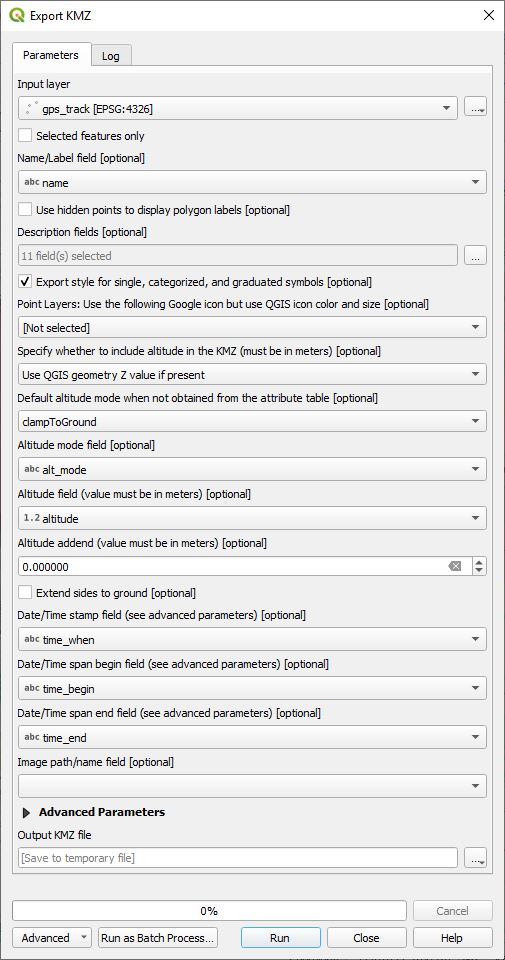
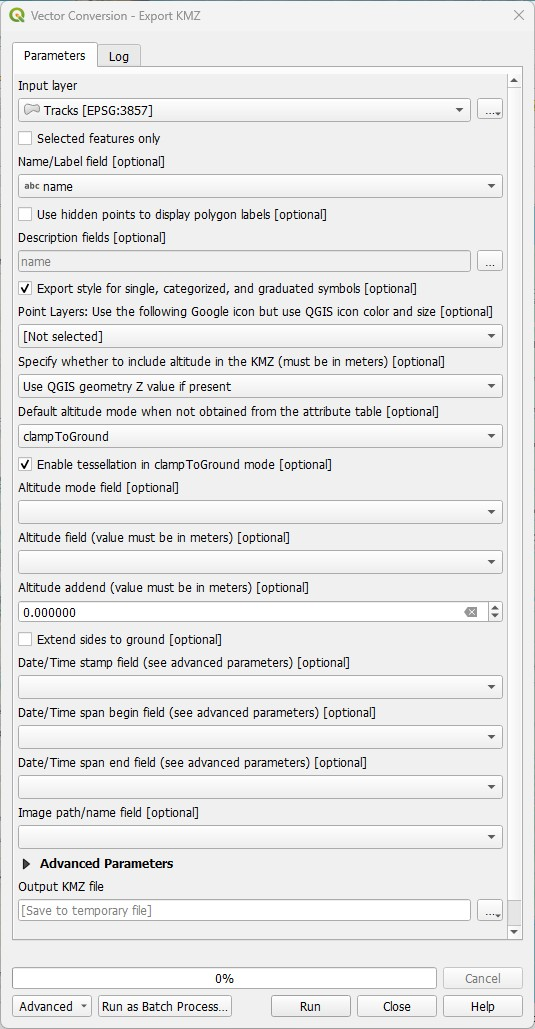
Enable tessellate tag

Changed region(s): [[0.0, 0.0, 1.0, 1.0], [0.2673, 0.0, 0.3861, 0.0312], [0.9505, 0.0, 1.0, 0.0312]]

diff --git a/index.html b/index.html
@@ -56,21 +56,18 @@ code {
         &lt;tr&gt;&lt;td&gt;State&lt;/td&gt;&lt;td&gt;Utah&lt;/td&gt;&lt;/tr&gt;
     &lt;/table&gt;
 </code></pre>
-
 <ul>
 <li><strong><em>Expand from "tag = value" pairs</em></strong> - If the KML has a description entry that contains "tag = value" entries separated by new paragraphs, line breaks, or entries in a single table column, then this option will parse these fields and add them to a new attribute table field. This is an example of data that it expands.</li>
 </ul>
 <pre><code>    &lt;b&gt;City&lt;b/&gt; = Provo&lt;br/&gt;
     &lt;b&gt;State&lt;b/&gt; = Utah&lt;br/&gt;
 </code></pre>
-
 <ul>
 <li><strong><em>Expand from "tag: value" pairs</em></strong> - If the KML has a description entry that contains "tag: value" entries separated by new paragraphs, line breaks, or entries in a single table column, then this option will parse these fields and add them to a new attribute table field. This is an example of data that it expands.</li>
 </ul>
 <pre><code>    &lt;b&gt;City:&lt;b/&gt; Provo&lt;br/&gt;
     &lt;b&gt;State:&lt;b/&gt; Utah&lt;br/&gt;
 </code></pre>
-
 <p>This can either be run from the menu, tool bar, or <em>Processing Toolbox</em>; however, running it from the menu or tool bar provides user interaction during the conversion to select which fields they want to expand. During expansion some of the expansion names may already exist in the table. If that is the case then an '_' followed by a number is appended to the end.</p>
 <div style="text-align:center"><img src="doc/html.jpg" alt="HTML Expander"></div>
 
@@ -94,6 +91,7 @@ code {
 <li><strong><em>Point layers: Use the following Google icon, but use QGIS icon color and size</em></strong> - Rather than display the QGIS icon shape, you can select one of the Google Earth icon shapes to be displayed for point features. The size and color of the icon will be determined by QGIS.</li>
 <li><strong><em>Specify whether to include altitude in the KMZ</em></strong> - If altitude is available in the QGIS geometry as a Z attribute or is available in the attribute table, then it can be included in the KMZ. Note that the altitude value must be in <strong>meters</strong>; otherwise, it will not be displayed correctly. The KML Altitude Mode also affects how altitude is interpreted.</li>
 <li><strong><em>Default altitude mode when not obtained from the attribute table</em></strong> - When altitude is not obtained from a field in the attribute table, then this value is used.</li>
+<li><strong><em>Enable tessellation in clampToGround mode</em></strong> - This enables tessellation and specifies whether to allow LinearRings to follow the terrain. This is only applicable when the altitude mode is clampToGround. Very large LinearRings should enable tessellation so that they follow the curvature of the earth without going underground and becoming  invisible.</li>
 <li><strong><em>Altitude mode field</em></strong> - Specify a field in the attribute table to be used as the altitude mode.</li>
 <li><strong><em>Altitude field</em></strong> - Specify a field in the attribute table to be used as the altitude. This value must be in meters.</li>
 <li><strong><em>Altitude addend</em></strong> - Specify a quantity to be used as addend for altitude (from Altitude field or Z attribute). This value must be in meters.</li>
@@ -110,7 +108,8 @@ code {
 <li><strong><em>Line width multiplication factor</em></strong> - Line widths in Google Earth visually appear smaller than in QGIS so this provides a method to make them look similar. By default this is set to 2.</li>
 <li><strong><em>Select field to create categorized KML subfolders</em></strong> - You can select an attribute to create categorized folders in the output KML. This is an example of National Parks layer exporated as a KML and displayed in Google Earth. You can see the National Parks categorized by their type.</li>
 </ul>
-<p><div style="text-align:center"><img src="doc/categorized_folders.jpg" alt="Advanced parameters"></div></p>
+<div style="text-align:center"><img src="doc/categorized_folders.jpg" alt="Advanced parameters"></div>
+
 <ul>
 <li>The rest of the advanced parameters allow the use of separate date and time fields to be combined into a single KML time stamp, time span begin, or time span end field.</li>
 </ul>
@@ -135,4 +134,5 @@ code {
 <p>The parameters are the input KML or KMZ and the location of a folder to store the images in. You can also specify whether to automatically load the converted GeoTIFF images into QGIS or not. If any images are found that cannot be converted, they will be reported in the algorithm log. If rotation is involved in the conversion process, the output GeoTIFFs are compatible with QGIS, but may not be compatible with other programs. If needed, run these images through <strong><em>GDAL-&gt;Raster projections-&gt;Warp</em></strong> to make them compatible with other programs.</p>
 <h3><img src="icons/gnd_overlay.svg" alt="Ground Overlay to GeoTIFF Image"> <strong><em>Ground Overlay to GeoTIFF Image</em></strong></h3>
 <p>This algorithm manually allows the user to specify an image and enter the north, south, east, west and rotation parameters to convert the input image into a GeoTIFF image. If rotation is not zero, the output GeoTiff is compatible with QGIS, but may not be compatible with other programs. If needed, run the output of this algorithm through <strong><em>GDAL-&gt;Raster projections-&gt;Warp</em></strong> to make it compatible with other programs.</p>
-<div style="text-align:center"><img src="doc/gndoverlay2tiff.jpg" alt="Ground Overlay to GeoTIFF"></div></body>
+<div style="text-align:center"><img src="doc/gndoverlay2tiff.jpg" alt="Ground Overlay to GeoTIFF"></div>
+</body>

diff --git a/exportKmz.py b/exportKmz.py
@@ -89,6 +89,7 @@ class ExportKmzAlgorithm(QgsProcessingAlgorithm):
     PrmPhotoField = 'PhotoField'
     PrmPhotoDir = 'PhotoDir'
     PrmUseDescBR = 'UseDescBR'
+    PrmTessellate = 'Tessellate'
     epsg4326 = QgsCoordinateReferenceSystem("EPSG:4326")
     temp_dir = tempfile.gettempdir()
 
@@ -176,6 +177,13 @@ class ExportKmzAlgorithm(QgsProcessingAlgorithm):
                 'Default altitude mode when not obtained from the attribute table',
                 options=ALTITUDE_MODES,
                 defaultValue=0,
+                optional=True)
+        )
+        self.addParameter(
+            QgsProcessingParameterBoolean(
+                self.PrmTessellate,
+                'Enable tessellation in clampToGround mode',
+                True,
                 optional=True)
         )
         self.addParameter(
@@ -383,6 +391,7 @@ class ExportKmzAlgorithm(QgsProcessingAlgorithm):
         altitude_field = self.parameterAsString(parameters, self.PrmAltitudeField, context)
         altitude_addend = self.parameterAsDouble(parameters, self.PrmAltitudeAddend, context)
         extend_sides_to_ground = self.parameterAsInt(parameters, self.PrmExtendSidesToGround, context)
+        tessellate = self.parameterAsInt(parameters, self.PrmTessellate, context)
         date_time_stamp_field = self.parameterAsString(parameters, self.PrmDateTimeStampField, context)
         date_stamp_field = self.parameterAsString(parameters, self.PrmDateStampField, context)
         time_stamp_field = self.parameterAsString(parameters, self.PrmTimeStampField, context)
@@ -505,7 +514,7 @@ class ExportKmzAlgorithm(QgsProcessingAlgorithm):
             if geomtype == QgsWkbTypes.PointGeometry:  # POINTS
                 for pt in geom.parts():
                     kmlpart = kmlgeom.newpoint()
-                    self.setAltitudeMode(kmlpart, feature, default_alt_mode, alt_mode_field, extend_sides_to_ground)
+                    self.setAltitudeMode(kmlpart, feature, default_alt_mode, alt_mode_field, extend_sides_to_ground, 0)
                     if kml_item is None:
                         kml_item = kmlpart
                     if hasz:
@@ -517,7 +526,7 @@ class ExportKmzAlgorithm(QgsProcessingAlgorithm):
                 for part in geom.parts():
                     # feedback.pushInfo('part type {}'.format(type(part)))
                     kmlpart = kmlgeom.newlinestring()
-                    self.setAltitudeMode(kmlpart, feature, default_alt_mode, alt_mode_field, extend_sides_to_ground)
+                    self.setAltitudeMode(kmlpart, feature, default_alt_mode, alt_mode_field, extend_sides_to_ground, tessellate)
                     if kml_item is None:
                         kml_item = kmlpart
                     if hasz:
@@ -535,7 +544,7 @@ class ExportKmzAlgorithm(QgsProcessingAlgorithm):
 
                 for part in geom.parts():
                     kmlpart = kmlgeom.newpolygon()
-                    self.setAltitudeMode(kmlpart, feature, default_alt_mode, alt_mode_field, extend_sides_to_ground)
+                    self.setAltitudeMode(kmlpart, feature, default_alt_mode, alt_mode_field, extend_sides_to_ground, tessellate)
                     if kml_item is None:
                         kml_item = kmlpart
                     num_interior_rings = part.numInteriorRings()
@@ -939,7 +948,7 @@ class ExportKmzAlgorithm(QgsProcessingAlgorithm):
         str = '\n'.join(strs)
         kml_item.description = str
 
-    def setAltitudeMode(self, kml_item, f, alt_mode, mode_field, extend_sides_to_ground):
+    def setAltitudeMode(self, kml_item, f, alt_mode, mode_field, extend_sides_to_ground, tessellate):
         try:
             mode = None
             if extend_sides_to_ground:
@@ -948,9 +957,13 @@ class ExportKmzAlgorithm(QgsProcessingAlgorithm):
                 mode = f[mode_field]
             if mode not in ALTITUDE_MODES and alt_mode:
                 kml_item.altitudemode = alt_mode
+                if tessellate and (alt_mode == 'clampToGround'):
+                    kml_item.tessellate = 1
                 return
             if mode in ALTITUDE_MODES:
                 kml_item.altitudemode = mode
+                if tessellate and (mode == 'clampToGround'):
+                    kml_item.tessellate = 1
         except Exception:
             return
 

diff --git a/readme.md b/readme.md
@@ -66,6 +66,7 @@ The following describes some of the functionality.
 * ***Point layers: Use the following Google icon, but use QGIS icon color and size*** - Rather than display the QGIS icon shape, you can select one of the Google Earth icon shapes to be displayed for point features. The size and color of the icon will be determined by QGIS.
 * ***Specify whether to include altitude in the KMZ*** - If altitude is available in the QGIS geometry as a Z attribute or is available in the attribute table, then it can be included in the KMZ. Note that the altitude value must be in **meters**; otherwise, it will not be displayed correctly. The KML Altitude Mode also affects how altitude is interpreted.
 * ***Default altitude mode when not obtained from the attribute table*** - When altitude is not obtained from a field in the attribute table, then this value is used.
+* ***Enable tessellation in clampToGround mode*** - This enables tessellation and specifies whether to allow LinearRings to follow the terrain. This is only applicable when the altitude mode is clampToGround. Very large LinearRings should enable tessellation so that they follow the curvature of the earth without going underground and becoming  invisible.
 * ***Altitude mode field*** - Specify a field in the attribute table to be used as the altitude mode.
 * ***Altitude field*** - Specify a field in the attribute table to be used as the altitude. This value must be in meters.
 * ***Altitude addend*** - Specify a quantity to be used as addend for altitude (from Altitude field or Z attribute). This value must be in meters.
